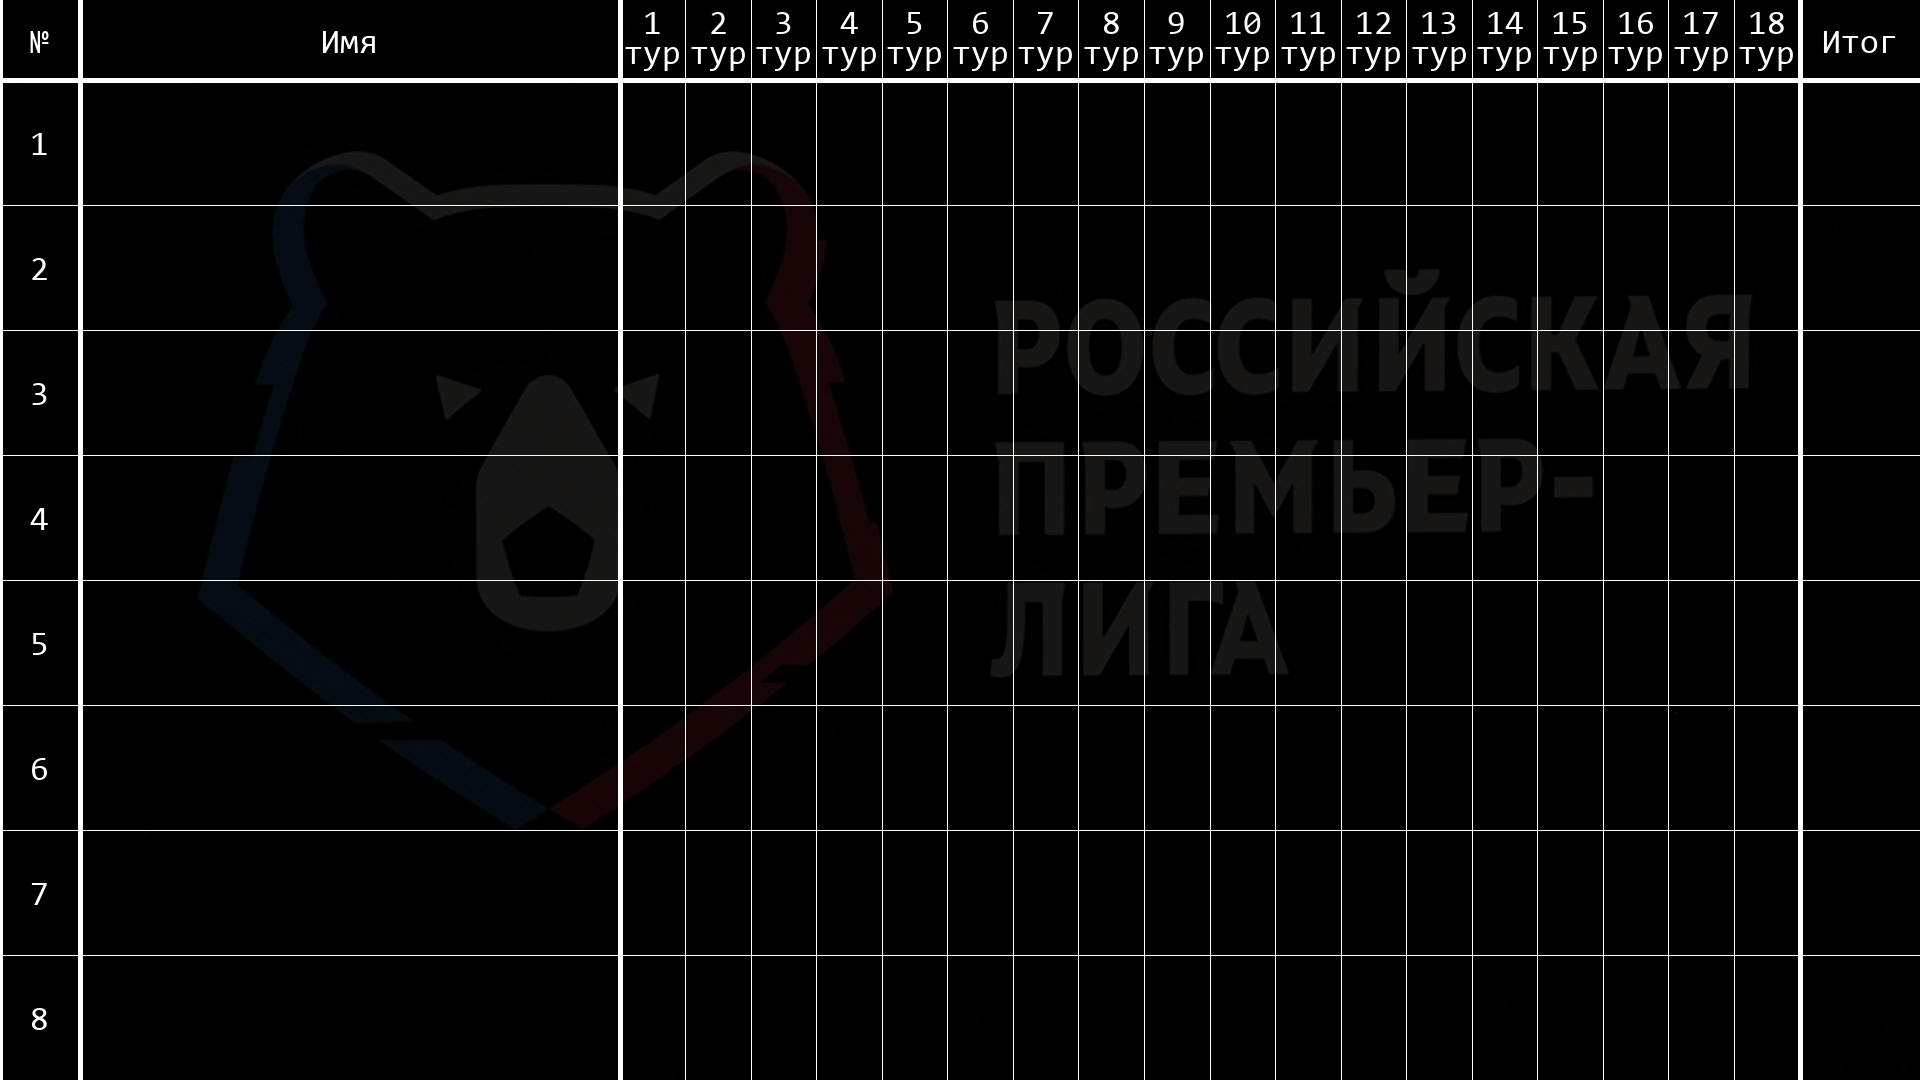
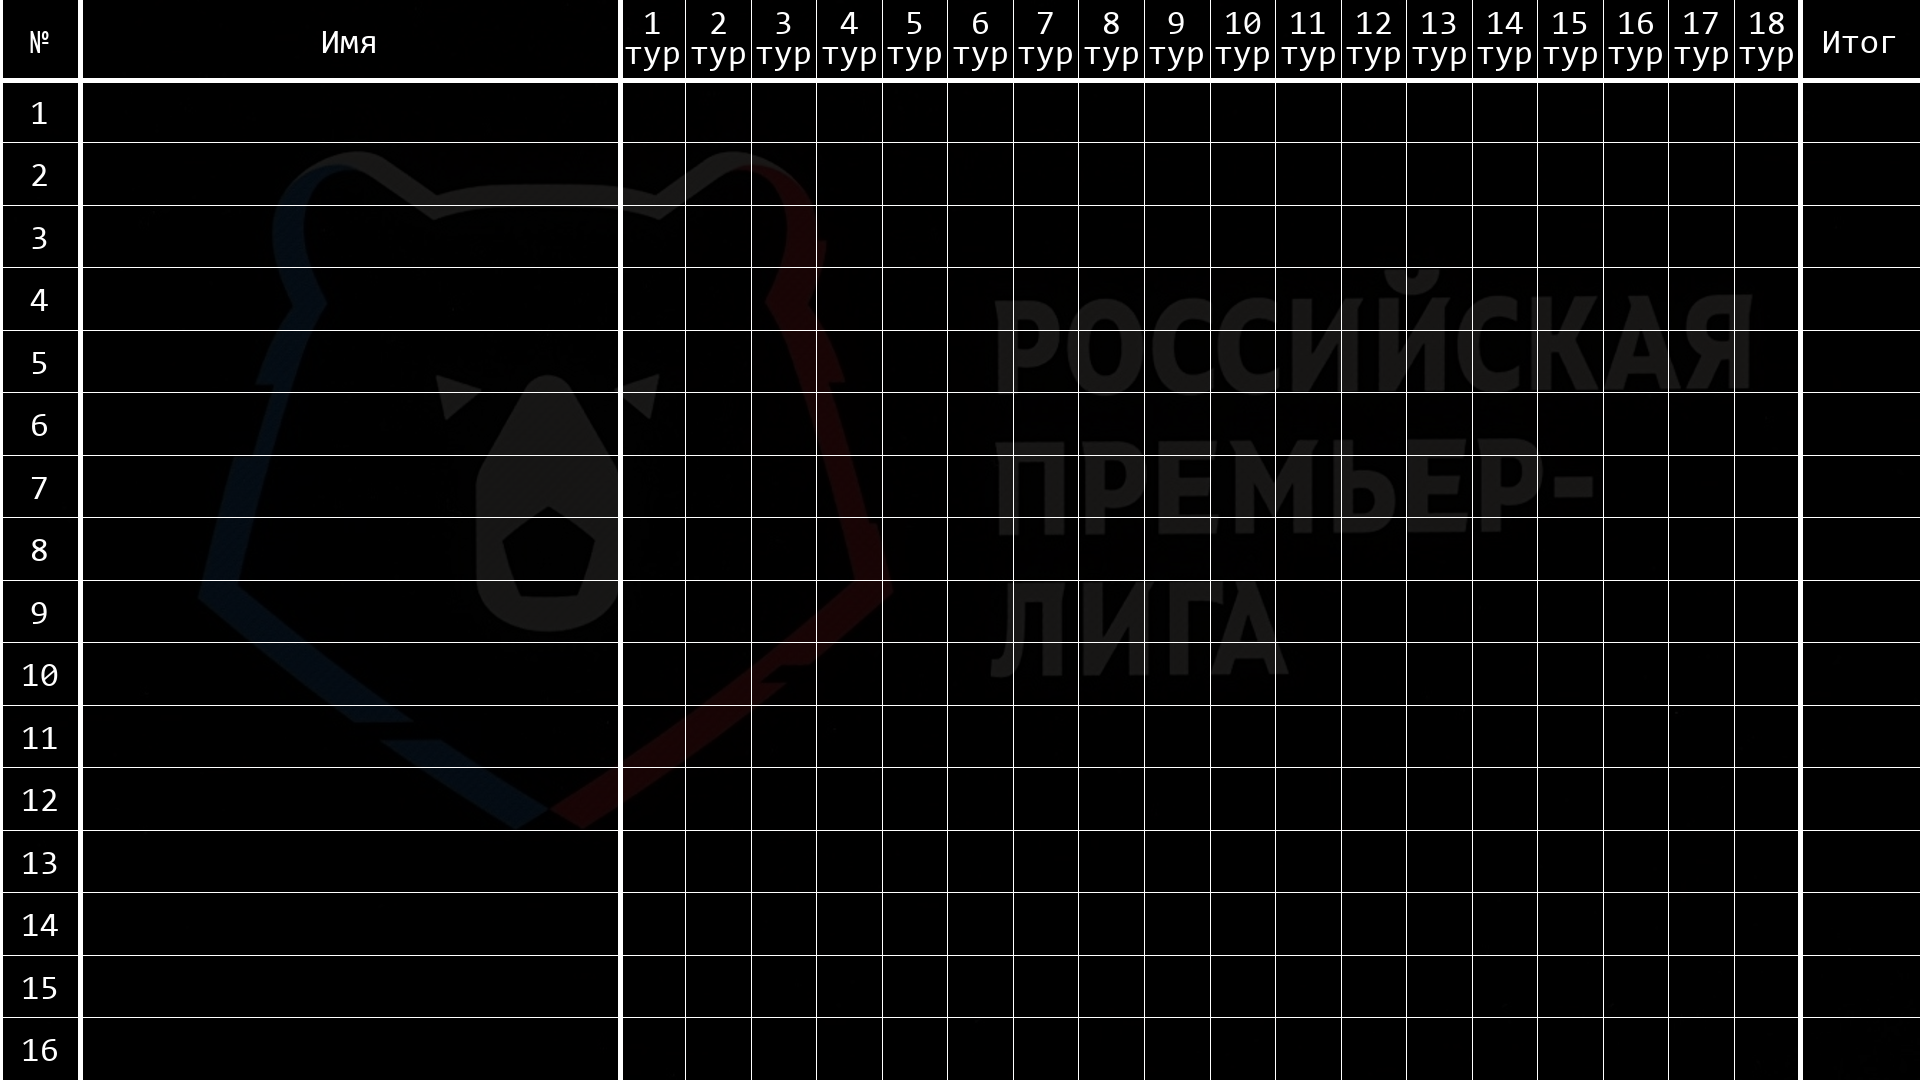
statr rournament

diff --git a/updater.py b/updater.py
@@ -10,6 +10,6 @@ def update():
         base.update_tournament_table(id[0], currtour, base.number_of_points_per_tour(id[0], currtour))
 
 while True:
-    if datetime.datetime.now().minute % 2 == 0:
+    if datetime.datetime.now().minute % 3 == 0:
         update()
         time.sleep(70)

diff --git a/config_data/config.py b/config_data/config.py
@@ -16,7 +16,7 @@ ADMIN_ID = os.getenv("ADMIN_ID")
 
 NUMBER_OF_TOUR = 18
 SUM_COLUMN = 3
-NUMBER_OF_PLAYERS = 8
+NUMBER_OF_PLAYERS = 16
 COUNT_MATCHES_IN_TOUR = 8
 TOUR1_COLUMN = 4
 NICKNAME_COLUMN = 0 
